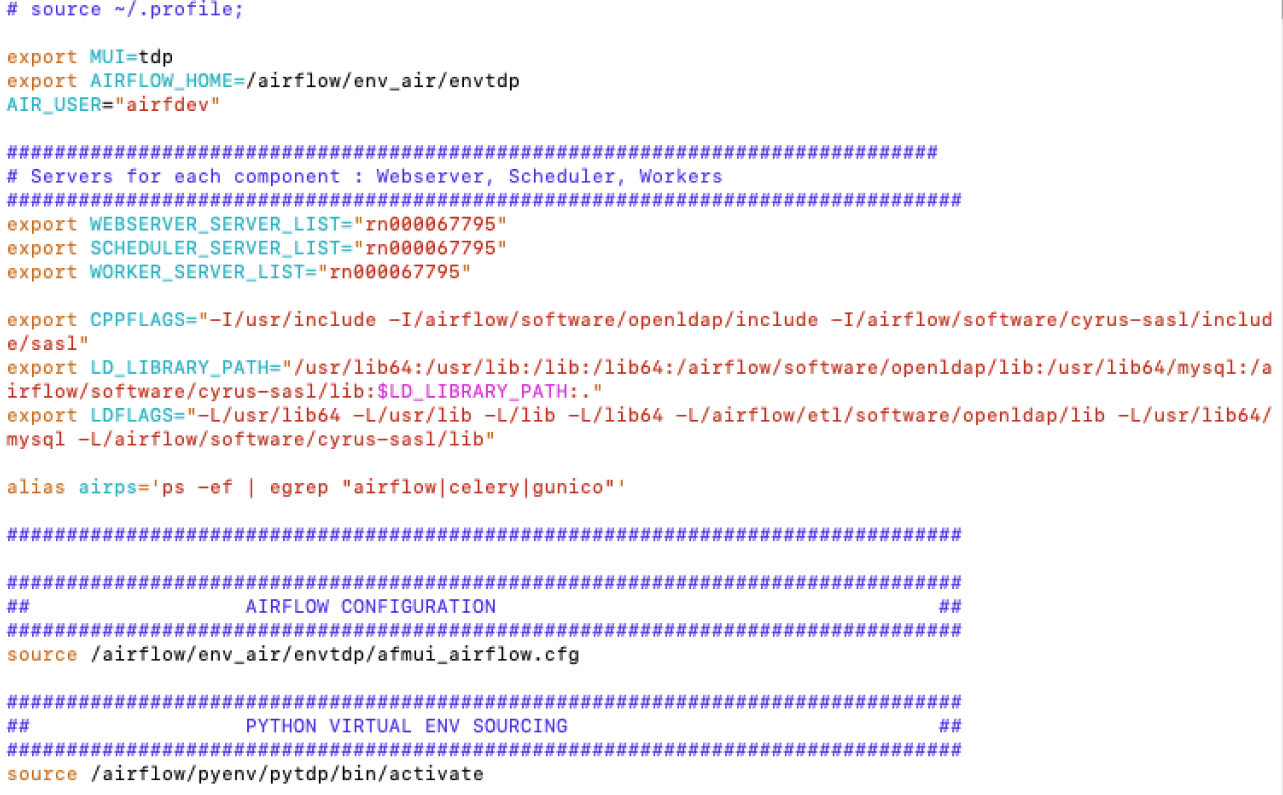
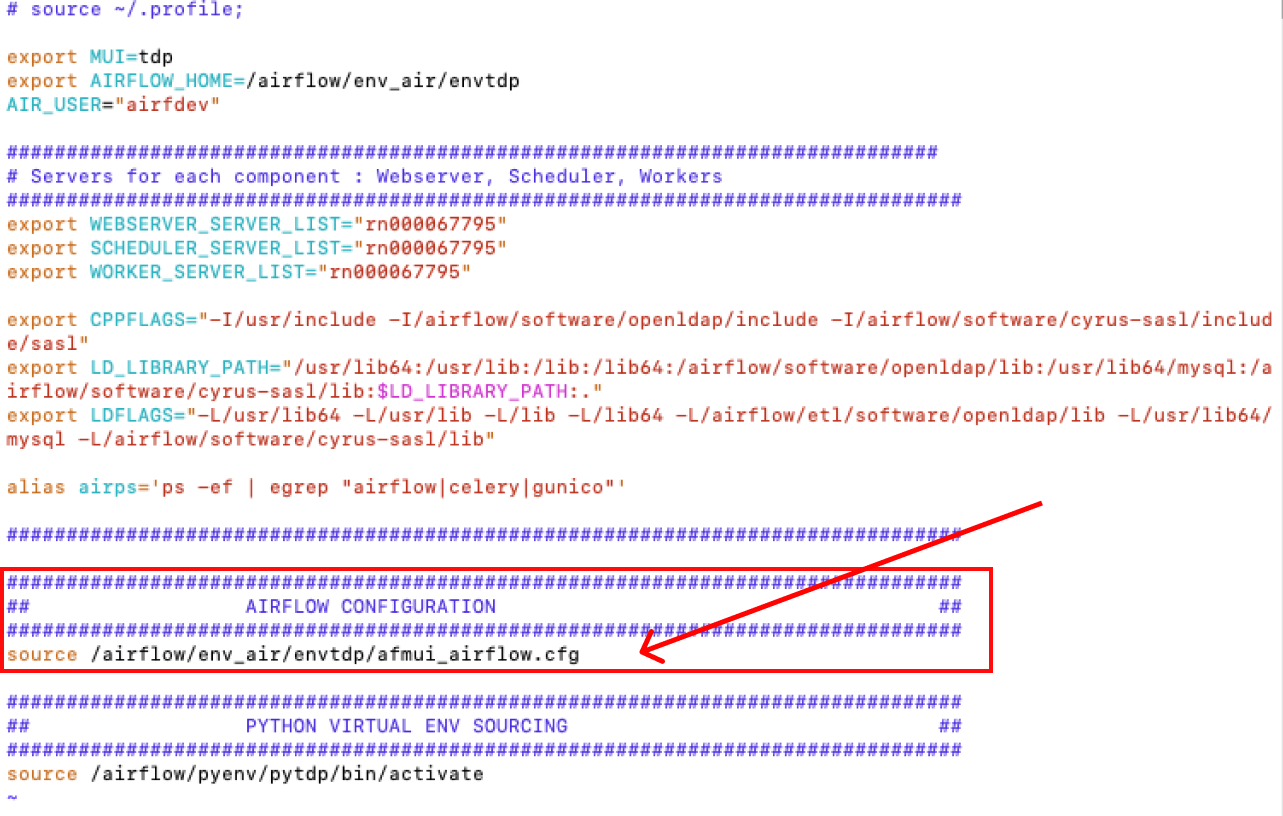
update

Changed region(s): [[0.0, 0.1811, 0.9977, 0.9962], [0.0, 0.0604, 0.4053, 0.1509], [0.7794, 0.6038, 0.8106, 0.634]]

diff --git a/OptumDoc/docs/setting.md b/OptumDoc/docs/setting.md
@@ -24,6 +24,10 @@ The airflow.cfg comes from the default installation and stays unchanged. We can 
     $ vim airtdp_env_setup.sh
     ```
     Update source file in AIRFLOW CONFIGURATION section to afmui_airflow.cfg:
+    from
     ![Screenshot](img/setting1.png)
+    to
+    ![Screenshot](img/setting2.png)
 
 3. Add environment variables in afmui_airflow.cfg configuration file
+    ![Screenshot](img/setting3.png)
